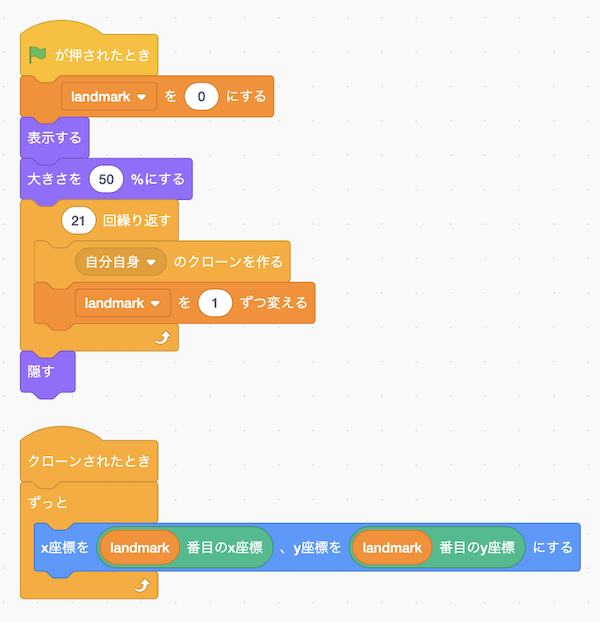
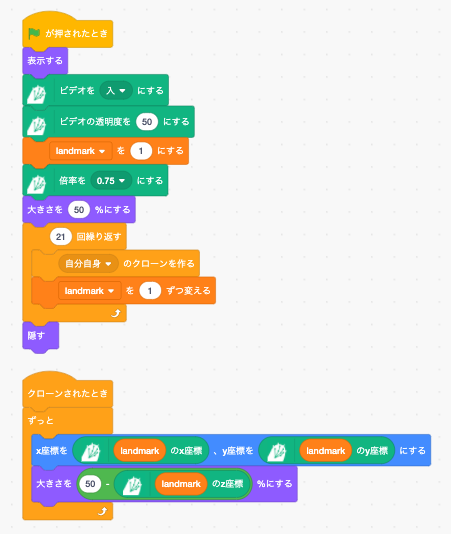
Enable to get z position of each landmark.

diff --git a/scratch-vm/src/extensions/scratch3_handpose2scratch/index.js b/scratch-vm/src/extensions/scratch3_handpose2scratch/index.js
@@ -18,6 +18,11 @@ const Message = {
     'ja-Hira': '[LANDMARK] のyざひょう',
     'en': 'y of [LANDMARK]'
   },
+  getZ: {
+    'ja': '[LANDMARK] のz座標',
+    'ja-Hira': '[LANDMARK] のzざひょう',
+    'en': 'z of [LANDMARK]'
+  },
   videoToggle: {
     'ja': 'ビデオを [VIDEO_STATE] にする',
     'ja-Hira': 'ビデオを [VIDEO_STATE] にする',
@@ -292,6 +297,18 @@ class Scratch3Handpose2ScratchBlocks {
                     }
                 },
                 {
+                  opcode: 'getZ',
+                  blockType: BlockType.REPORTER,
+                  text: Message.getZ[this._locale],
+                  arguments: {
+                      LANDMARK: {
+                          type: ArgumentType.STRING,
+                          menu: 'landmark',
+                          defaultValue: '1'
+                      }
+                  }
+                },
+                {
                     opcode: 'videoToggle',
                     blockType: BlockType.COMMAND,
                     text: Message.videoToggle[this._locale],
@@ -368,6 +385,15 @@ class Scratch3Handpose2ScratchBlocks {
       let landmark = parseInt(args.LANDMARK, 10) - 1;
       if (this.landmarks[landmark]) {
         return 180 - this.landmarks[landmark][1] * this.ratio;
+      } else {
+        return "";
+      }
+    }
+
+    getZ (args) {
+      let landmark = parseInt(args.LANDMARK, 10) - 1;
+      if (this.landmarks[landmark]) {
+        return this.landmarks[landmark][2];
       } else {
         return "";
       }
